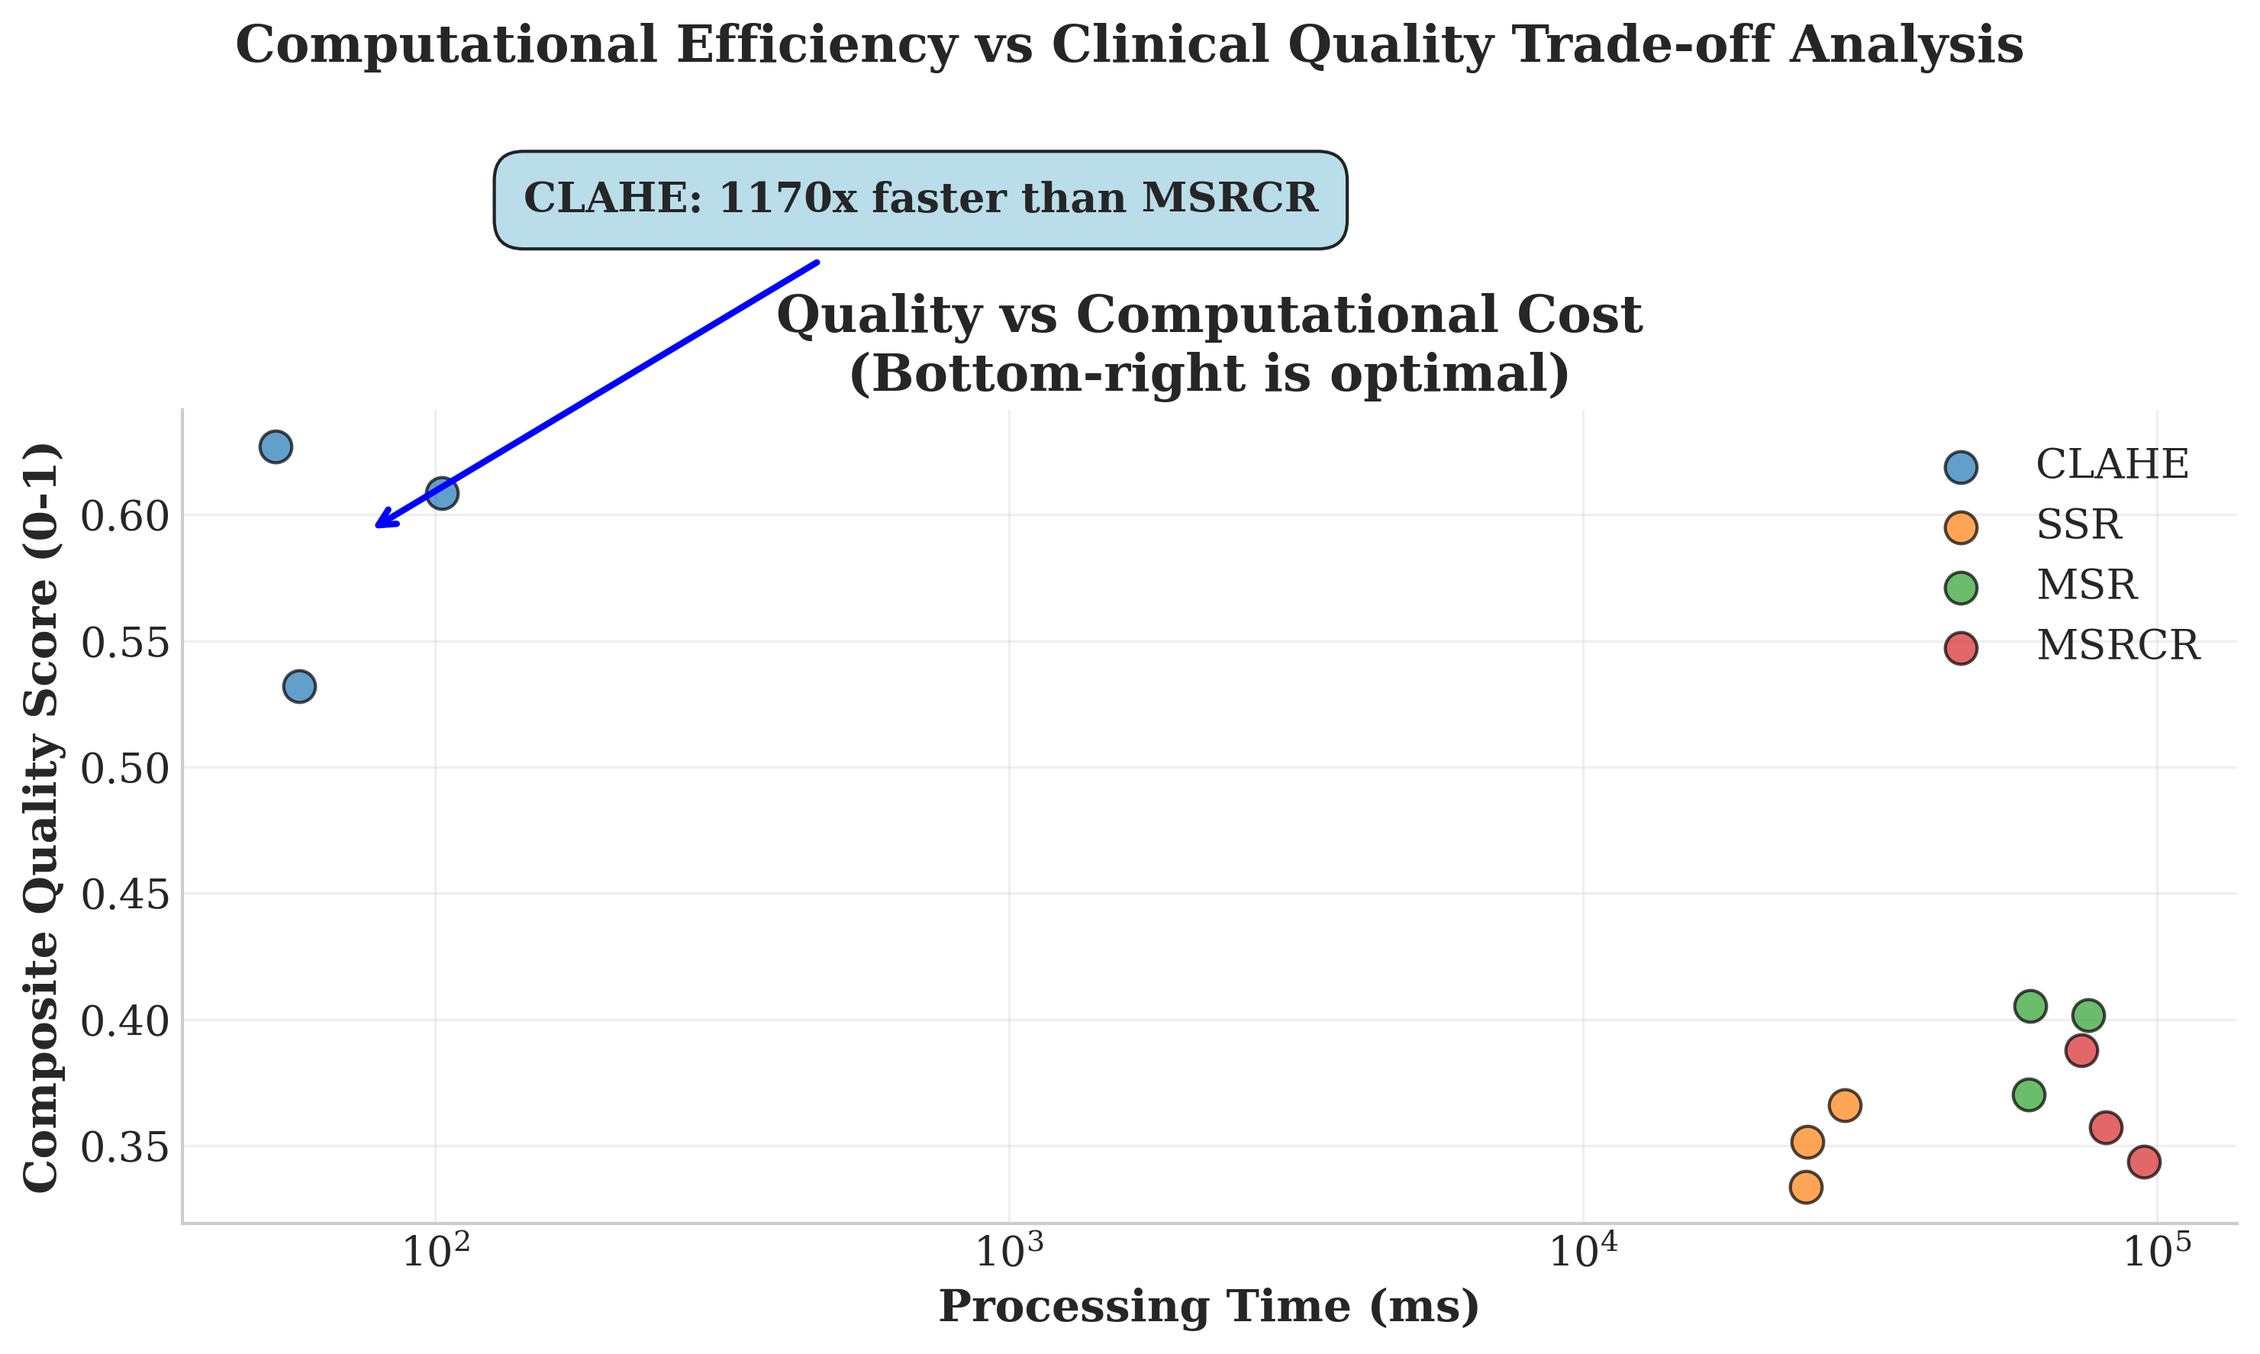
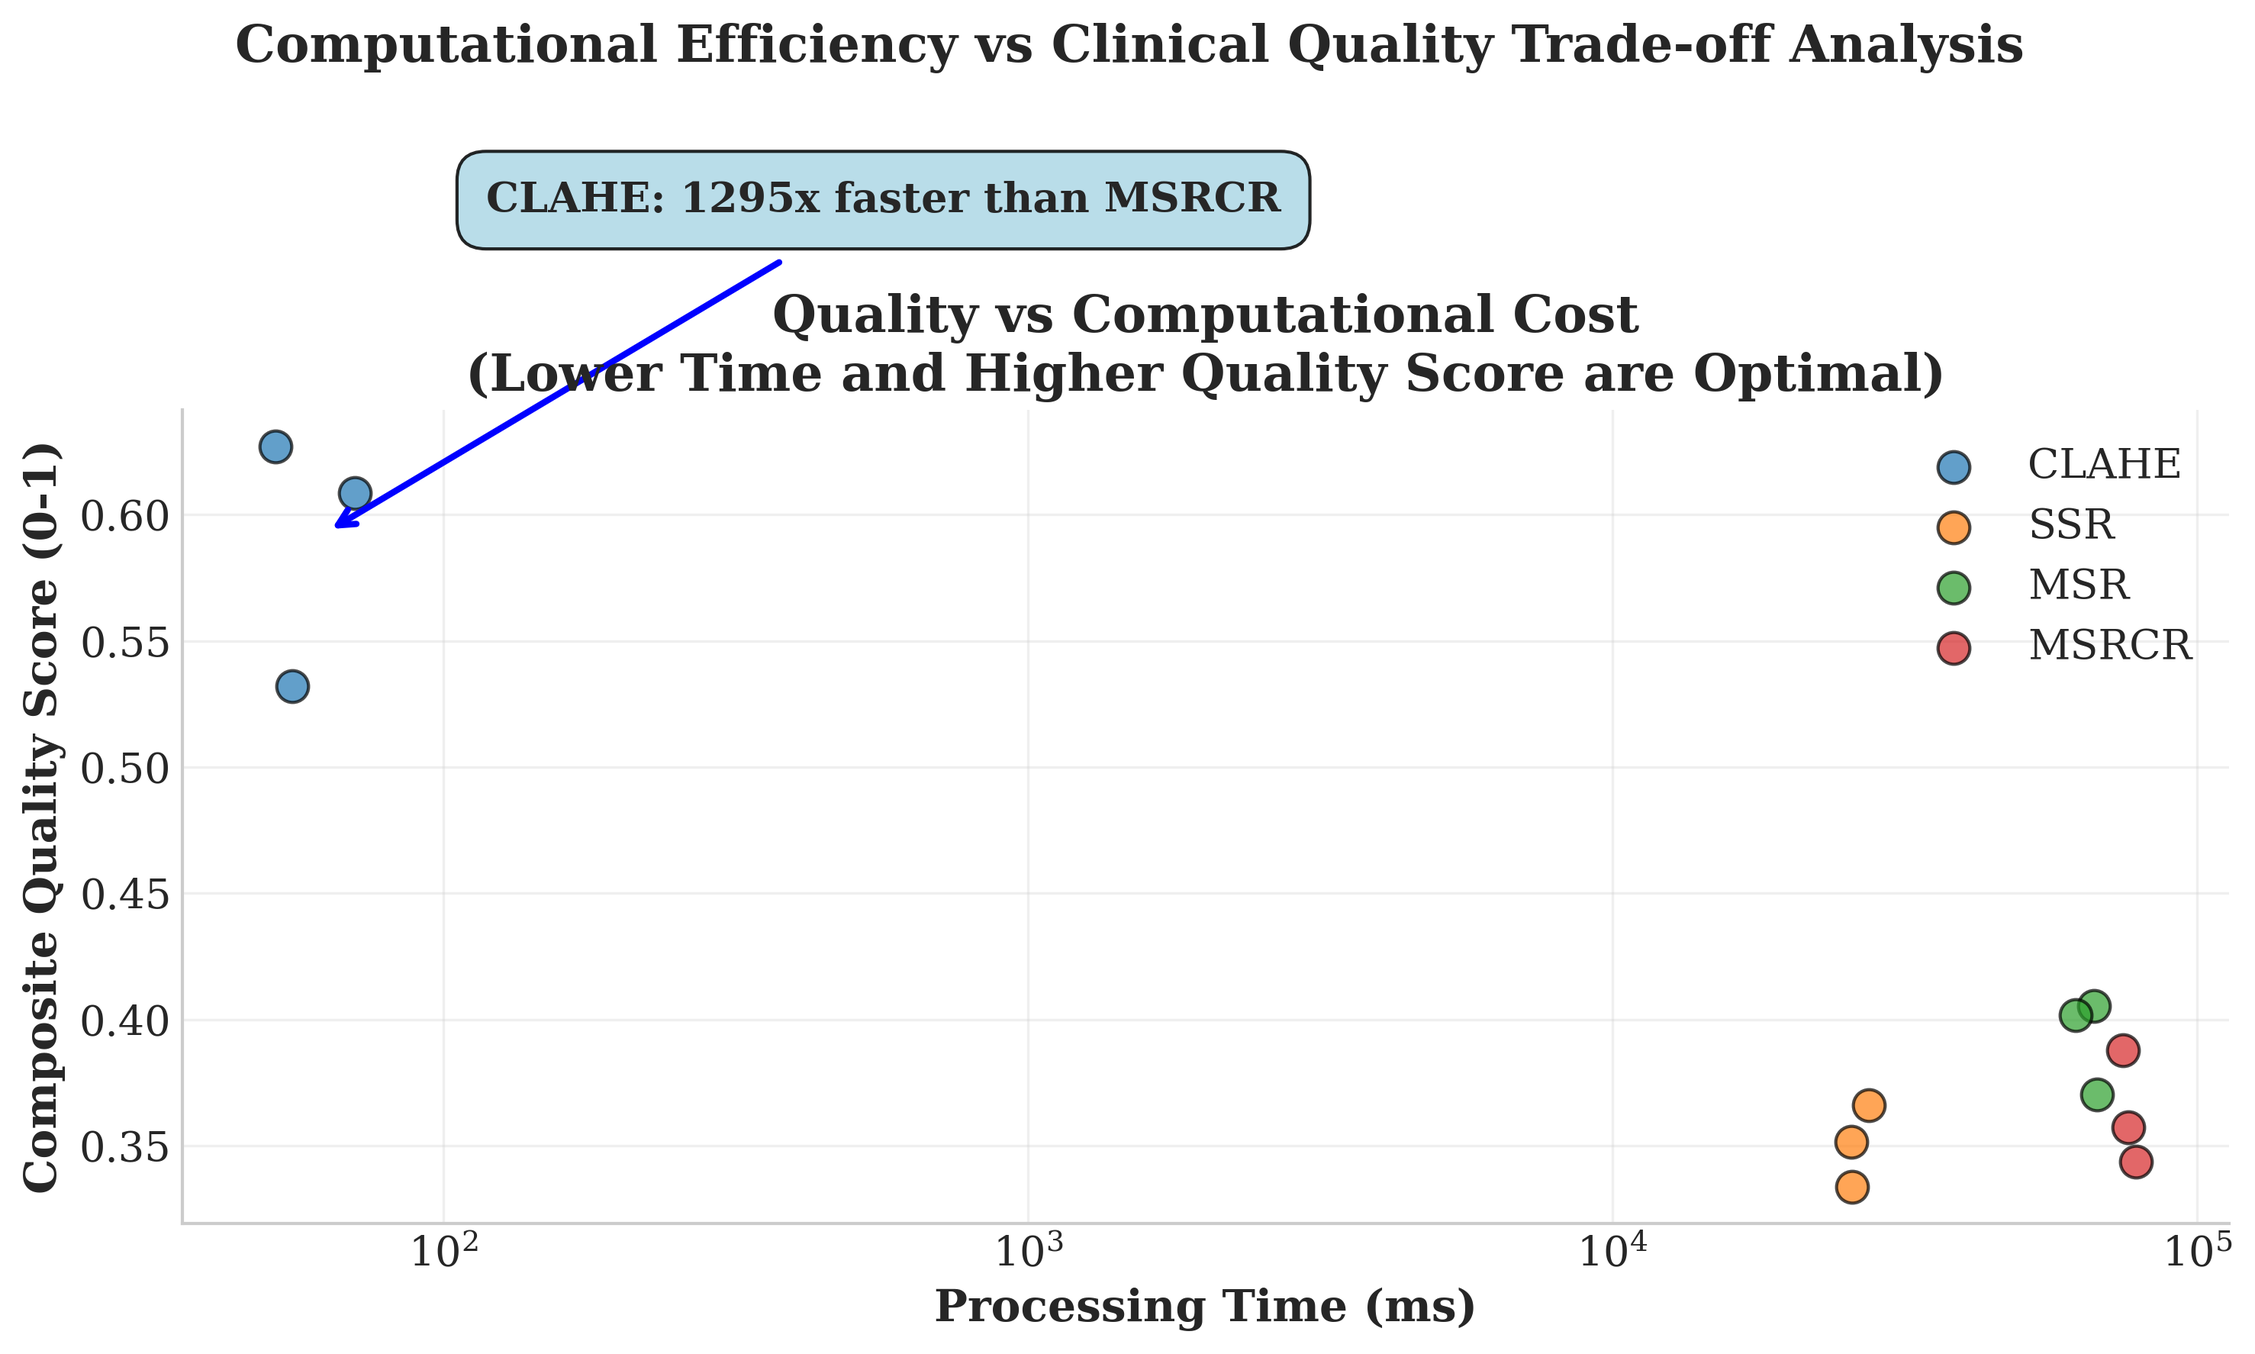
ajuste nos graficos

diff --git a/hrf_visualizer.py b/hrf_visualizer.py
@@ -1,7 +1,7 @@
 #!/usr/bin/env python3
 """
 Academic Visualization Generator for Fundoscopic Image Enhancement Methods
-Generates publication-ready figures for scientific paper
+Generates publication-ready figures and tables for scientific paper
 """
 
 import pandas as pd
@@ -34,13 +34,15 @@ plt.rcParams.update({
 
 class AcademicVisualizationGenerator:
     """
-    Generates publication-ready visualizations for medical imaging research
+    Generates publication-ready visualizations and tables for medical imaging research.
     """
 
     def __init__(self, data_dir: str = "."):
         self.data_dir = Path(data_dir)
-        self.output_dir = Path("results/figures")  # Ajuste: saída para 'figures conforme hrf_experiment.py
-        self.output_dir.mkdir(exist_ok=True)
+        self.output_figures_dir = Path("results/figures") # Saída para figuras
+        self.output_tables_dir = Path("results/tables")   # Saída para tabelas
+        self.output_figures_dir.mkdir(exist_ok=True)
+        self.output_tables_dir.mkdir(exist_ok=True)
 
         # Academic color palette (colorblind-friendly)
         self.colors = {
@@ -119,8 +121,7 @@ class AcademicVisualizationGenerator:
                        ha='center', va='bottom', fontsize=11, fontweight='bold')
 
         plt.tight_layout()
-        # plt.savefig(self.output_dir / 'figure_1_method_comparison.pdf', dpi=300, bbox_inches='tight')  # Removido
-        plt.savefig(self.output_dir / 'figure_1_method_comparison.png', dpi=300, bbox_inches='tight')
+        plt.savefig(self.output_figures_dir / 'figure_1_method_comparison.png', dpi=300, bbox_inches='tight')
         plt.close()
 
         return "Figure 1: Comprehensive method comparison generated"
@@ -157,7 +158,7 @@ class AcademicVisualizationGenerator:
 
         ax.set_xlabel('Processing Time (ms)', fontweight='bold', fontsize=14)
         ax.set_ylabel('Composite Quality Score (0-1)', fontweight='bold', fontsize=14)
-        ax.set_title('Quality vs Computational Cost\n(Bottom-right is optimal)', fontweight='bold', fontsize=16)
+        ax.set_title('Quality vs Computational Cost\n(Lower Time and Higher Quality Score are Optimal)', fontweight='bold', fontsize=16)
         ax.set_xscale('log')
         ax.legend(fontsize=13, loc='best')
         ax.grid(True, alpha=0.3)
@@ -172,26 +173,217 @@ class AcademicVisualizationGenerator:
         msrcr_time = msrcr_data['processing_time_ms'].mean()
         efficiency_ratio = msrcr_time / clahe_time
 
-        # Ajuste: seta e texto um pouco mais à direita e maior para caber em uma linha só
         ax.annotate(
             f'CLAHE: {efficiency_ratio:.0f}x faster than MSRCR',
             xy=(clahe_time, clahe_data['quality_score'].mean()),
             xytext=(clahe_time * 2, 0.72),
-            arrowprops=dict(arrowstyle='->', color='blue', lw=2, shrinkA=8, shrinkB=8),  # shrinkA/B deixam a seta menor
+            arrowprops=dict(arrowstyle='->', color='blue', lw=2, shrinkA=8, shrinkB=8),
             fontsize=13, fontweight='bold',
             bbox=dict(boxstyle='round,pad=0.7', facecolor='lightblue', alpha=0.85)
         )
 
         plt.tight_layout()
-        plt.savefig(self.output_dir / 'figure_2_efficiency_analysis.png', dpi=300, bbox_inches='tight')
+        plt.savefig(self.output_figures_dir / 'figure_2_efficiency_analysis.png', dpi=300, bbox_inches='tight')
         plt.close()
 
         return "Figure 2: Efficiency vs Quality analysis generated"
 
+    def create_figure_3_p_value_table(self):
+        """
+        Generates a publication-ready p-value table with robust error handling
+        and symmetric design for academic papers.
+        """
+        metrics = sorted(self.stats['comparisons'].keys())
+        data = []
+
+        # Color coding scheme for significance levels
+        def get_color(p):
+            if np.isnan(p):
+                return 'white'
+            elif p <= 0.001:
+                return '#006400'  # Dark green (highly significant)
+            elif p <= 0.01:
+                return '#32CD32'  # Medium green (very significant)
+            elif p <= 0.05:
+                return '#FFD700'  # Gold (significant)
+            else:
+                return '#D3D3D3'  # Light gray (not significant)
+
+        # Prepare table data with compact metric names
+        for metric in metrics:
+            result = self.stats['comparisons'][metric]
+            bonf = result.get('bonferroni_corrected_p', np.nan)
+            fdr = result.get('fdr_corrected_p', np.nan)
+
+            # Scientific abbreviations for retinal metrics
+            metric_name = metric.replace("_", " ").title()
+            metric_name = (metric_name.replace("Peak Signal To Noise Ratio", "PSNR")
+                        .replace("Structural Similarity Index", "SSIM")
+                        .replace("Contrast Ratio", "Contrast")
+                        .replace("Vessel Clarity Index", "Vessel Clarity")
+                        .replace("Illumination Uniformity", "Illum. Unif.")
+                        .replace("Microaneurysm Visibility", "MA Visibility"))
+
+            # Use English terms for international submission
+            bonf_sig = "YES" if not np.isnan(bonf) and bonf < 0.05 else "NO"
+            fdr_sig = "YES" if not np.isnan(fdr) and fdr < 0.05 else "NO"
+
+            data.append([
+                metric_name,
+                f"{bonf:.3e}" if not np.isnan(bonf) else "N/A",
+                bonf_sig,
+                f"{fdr:.3e}" if not np.isnan(fdr) else "N/A",
+                fdr_sig,
+                get_color(bonf),
+                get_color(fdr)
+            ])
+
+        # Create symmetric dataframe
+        df_vis = pd.DataFrame(data, columns=[
+            "Metric", "Bonf. p", "Sig_Bonf", "FDR p", "Sig_FDR", "BonfColor", "FDRColor"
+        ])
+
+        # Tamanho aumentado da figura
+        fig, ax = plt.subplots(figsize=(14, 8))
+        ax.axis('off')
+
+        # === CRITICAL FIX: Robust column width handling ===
+        num_columns = 5  # Explicitly define expected columns
+        # Ajustado para dar mais espaço para as colunas de significância
+        symmetric_widths = [0.30, 0.18, 0.12, 0.18, 0.12]
+
+        # Validate dimensions before table creation
+        if len(symmetric_widths) != num_columns:
+            symmetric_widths = [0.25] * num_columns  # Safe fallback
+
+        # Adicionando verificação para dados
+        print("Verifying table data:")
+        for row in df_vis[["Metric", "Bonf. p", "Sig_Bonf", "FDR p", "Sig_FDR"]].values:
+            print(row)  # Diagnostic information for console
+
+        # Create table with dimension safeguards
+        try:
+            table = ax.table(
+                cellText=df_vis[["Metric", "Bonf. p", "Sig_Bonf", "FDR p", "Sig_FDR"]].values,
+                colLabels=[
+                    "Ophthalmic Metric",
+                    "Bonferroni p-value",
+                    "Significant",  # Changed to English
+                    "FDR p-value",
+                    "Significant"   # Changed to English
+                ],
+                loc='center',
+                cellLoc='center',
+                colLoc='center',
+                colWidths=symmetric_widths
+            )
+
+            # Increase header row height to accommodate larger text
+            for (i, j), cell in table.get_celld().items():
+                if i == 0:  # Header row
+                    cell.set_height(0.10)  # Increased from 0.08 to 0.10
+        except ValueError as e:
+            print(f"Error creating table: {e}")
+            # Emergency recovery for dimension mismatch
+            table = ax.table(
+                cellText=df_vis.iloc[:, :num_columns].values,
+                colLabels=df_vis.columns[:num_columns],
+                loc='center'
+            )
+
+        # ===== ACADEMIC STYLING =====
+        # 1. Header styling with LARGER FONT SIZE
+        for i in range(5):
+            try:
+                cell = table.get_celld()[(0, i)]
+                # Increased font size for headers (14 pt)
+                cell.set_text_props(weight='bold', color='white', fontsize=14)
+                cell.set_facecolor('#2F5496')  # Academic blue
+            except KeyError:
+                continue  # Skip if cell doesn't exist
+
+        # 2. Significance highlighting
+        for i in range(len(df_vis)):
+            try:
+                # Bonferroni column
+                table.get_celld()[(i+1, 1)].set_facecolor(df_vis.iloc[i]['BonfColor'])
+                # FDR column
+                table.get_celld()[(i+1, 3)].set_facecolor(df_vis.iloc[i]['FDRColor'])
+
+                # Color significance columns based on value
+                bonf_sig = df_vis.iloc[i]['Sig_Bonf']
+                fdr_sig = df_vis.iloc[i]['Sig_FDR']
+
+                if bonf_sig == "YES":
+                    table.get_celld()[(i+1, 2)].set_facecolor('#90EE90')  # light green
+                else:
+                    table.get_celld()[(i+1, 2)].set_facecolor('#FFCCCB')  # light red
+
+                if fdr_sig == "YES":
+                    table.get_celld()[(i+1, 4)].set_facecolor('#90EE90')  # light green
+                else:
+                    table.get_celld()[(i+1, 4)].set_facecolor('#FFCCCB')  # light red
+
+                # Zebra striping for metrics
+                if i % 2 == 0:
+                    table.get_celld()[(i+1, 0)].set_facecolor('#F8F8F8')
+            except (KeyError, IndexError) as e:
+                print(f"Error styling cell [{i}]: {e}")
+                continue
+
+        # 3. Typography refinement - INCREASED FONT SIZE
+        table.auto_set_font_size(False)
+        table.set_fontsize(12)  # Increased from 11 to 12 for cell text
+        table.scale(1, 1.7)     # Improved spacing for taller cells
+
+        # ===== STATISTICAL CONTEXT =====
+        # 1. Significance legend
+        legend_elements = [
+            plt.Rectangle((0,0), 1, 1, color='#006400', label='p ≤ 0.001'),
+            plt.Rectangle((0,0), 1, 1, color='#32CD32', label='p ≤ 0.01'),
+            plt.Rectangle((0,0), 1, 1, color='#FFD700', label='p ≤ 0.05'),
+            plt.Rectangle((0,0), 1, 1, color='#D3D3D3', label='p > 0.05')
+        ]
+
+        ax.legend(
+            handles=legend_elements,
+            loc='lower center',
+            bbox_to_anchor=(0.5, -0.15),
+            ncol=4,
+            frameon=False,
+            title="Significance Level:",
+            title_fontproperties={'weight': 'bold', 'size': 12},  # Increased legend title size
+            fontsize=12  # Increased legend text size
+        )
+
+        # 2. Statistical recommendation (in English)
+        fig.text(
+            0.5, -0.05,
+            "Interpretation recommendation: FDR-corrected values should be prioritized for clinical conclusions",
+            ha='center',
+            fontsize=11,  # Increased from 10 to 11
+            style='italic'
+        )
+
+        # 3. Table title
+        plt.suptitle(
+            "Statistical Significance of Illumination Correction Methods",
+            fontsize=18,  # Increased from 16 to 18
+            fontweight='bold',
+            y=0.98
+        )
+
+        # Save publication-ready figure
+        out_path = self.output_figures_dir / "figure3_statistical_significance_table.png"
+        plt.savefig(out_path, dpi=600, bbox_inches='tight')
+        plt.close()
+
+        return f"Figure 3: Statistical significance table saved to {out_path}"
+
     def generate_all_figures(self):
-        """Generate all academic figures for the paper"""
+        """Generate all academic figures and tables for the paper"""
         print("\n" + "="*60)
-        print("GENERATING ACADEMIC FIGURES")
+        print("GENERATING ACADEMIC FIGURES AND TABLES")
         print("="*60)
 
         results = []
@@ -203,14 +395,14 @@ class AcademicVisualizationGenerator:
             results.append(self.create_figure_2_efficiency_analysis())
             print("✓ Figure 2 completed")
 
-            # Remover ou comentar as linhas abaixo:
-            # results.append(self.create_summary_table_figure())
-            # print("✓ Summary table completed")
+            # CHAMA AGORA O NOVO MÉTODO QUE GERA A TABELA AO INVÉS DO PLOT
+            results.append(self.create_figure_3_p_value_table())
+            print("✓ Figure 3 (Table) completed")
 
-            print(f"\n✓ All figures saved to: {self.output_dir.absolute()}")
+            print(f"\n✓ All figures and tables saved to: {self.output_figures_dir.absolute()} and {self.output_tables_dir.absolute()}")
 
         except Exception as e:
-            print(f"Error generating figures: {e}")
+            print(f"Error generating figures/tables: {e}")
             raise
 
         return results
@@ -219,4 +411,3 @@ if __name__ == "__main__":
     # Ajuste: use "." para data_dir, pois os arquivos estão em subpastas do diretório atual
     generator = AcademicVisualizationGenerator(data_dir=".")
     generator.generate_all_figures()
-

diff --git a/hrf_analysis.py b/hrf_analysis.py
@@ -502,7 +502,7 @@ class AcademicVisualizerEnhanced:
         methods = ['CLAHE', 'SSR', 'MSR', 'MSRCR']
 
         fig, axes = plt.subplots(len(image_ids), len(methods) + 1,
-                                figsize=(18, 4 * len(image_ids)))
+                                figsize=(16, 4 * len(image_ids)))
 
         if len(image_ids) == 1:
             axes = axes.reshape(1, -1)
@@ -516,6 +516,17 @@ class AcademicVisualizerEnhanced:
                 axes[i, 0].set_title('ORIGINAL' if i == 0 else '', fontsize=16)
                 axes[i, 0].axis('off')
 
+                # Salvar imagem original individualmente como PNG
+                original_img = cv2.cvtColor(original_result['image'], cv2.COLOR_BGR2RGB)
+                img_filename = f"{image_id}_original.png"
+                plt.figure(figsize=(8, 8))
+                plt.imshow(original_img)
+                plt.axis('off')
+                plt.title('ORIGINAL', fontsize=16)
+                plt.tight_layout()
+                plt.savefig(output_dir / img_filename, format='png', dpi=300)
+                plt.close()
+
             # Processed images with metrics
             for j, method in enumerate(methods):
                 method_result = next((r for r in results
@@ -524,6 +535,7 @@ class AcademicVisualizerEnhanced:
                     axes[i, j+1].imshow(cv2.cvtColor(method_result['image'], cv2.COLOR_BGR2RGB))
 
                     # Add metrics as text overlay
+                    text = ""
                     if 'metrics' in method_result:
                         metrics = method_result['metrics']
                         if 'psnr' in metrics and 'ssim' in metrics:
@@ -541,6 +553,26 @@ class AcademicVisualizerEnhanced:
 
                     axes[i, j+1].set_title(method.upper() if i == 0 else '', fontsize=16)
                     axes[i, j+1].axis('off')
+
+                    # Salvar método individualmente como PNG
+                    method_img = cv2.cvtColor(method_result['image'], cv2.COLOR_BGR2RGB)
+                    img_filename = f"{image_id}_{method.lower()}.png"
+                    plt.figure(figsize=(8, 8))
+                    plt.imshow(method_img)
+                    plt.axis('off')
+                    plt.title(method.upper(), fontsize=16)
+
+                    # Adicionar também as métricas na figura individual
+                    if text:
+                        plt.text(
+                            0.02, 0.98, text, transform=plt.gca().transAxes,
+                            fontsize=16, verticalalignment='top',
+                            bbox=dict(boxstyle='round', facecolor='white', alpha=0.8)
+                        )
+
+                    plt.tight_layout()
+                    plt.savefig(output_dir / img_filename, format='png', dpi=300)
+                    plt.close()
 
         # Remover o título geral da figura
         # plt.suptitle('Enhanced Visual Comparison of Illumination Correction Methods', fontsize=16)
